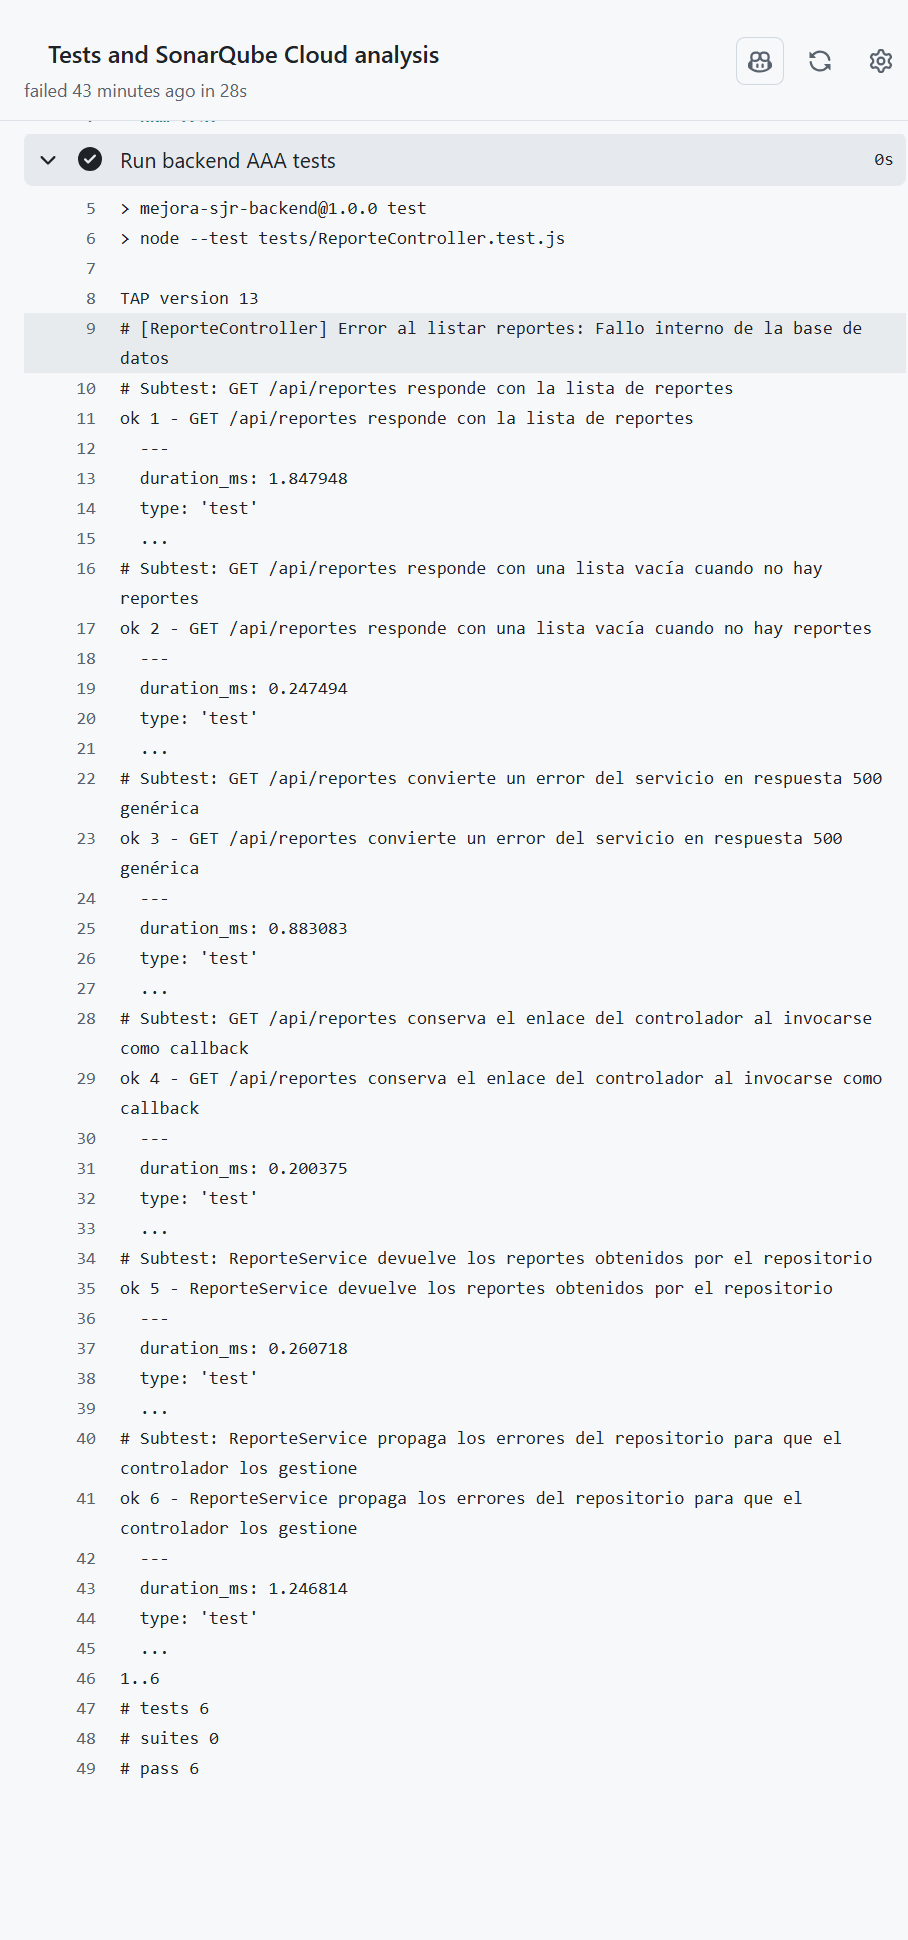
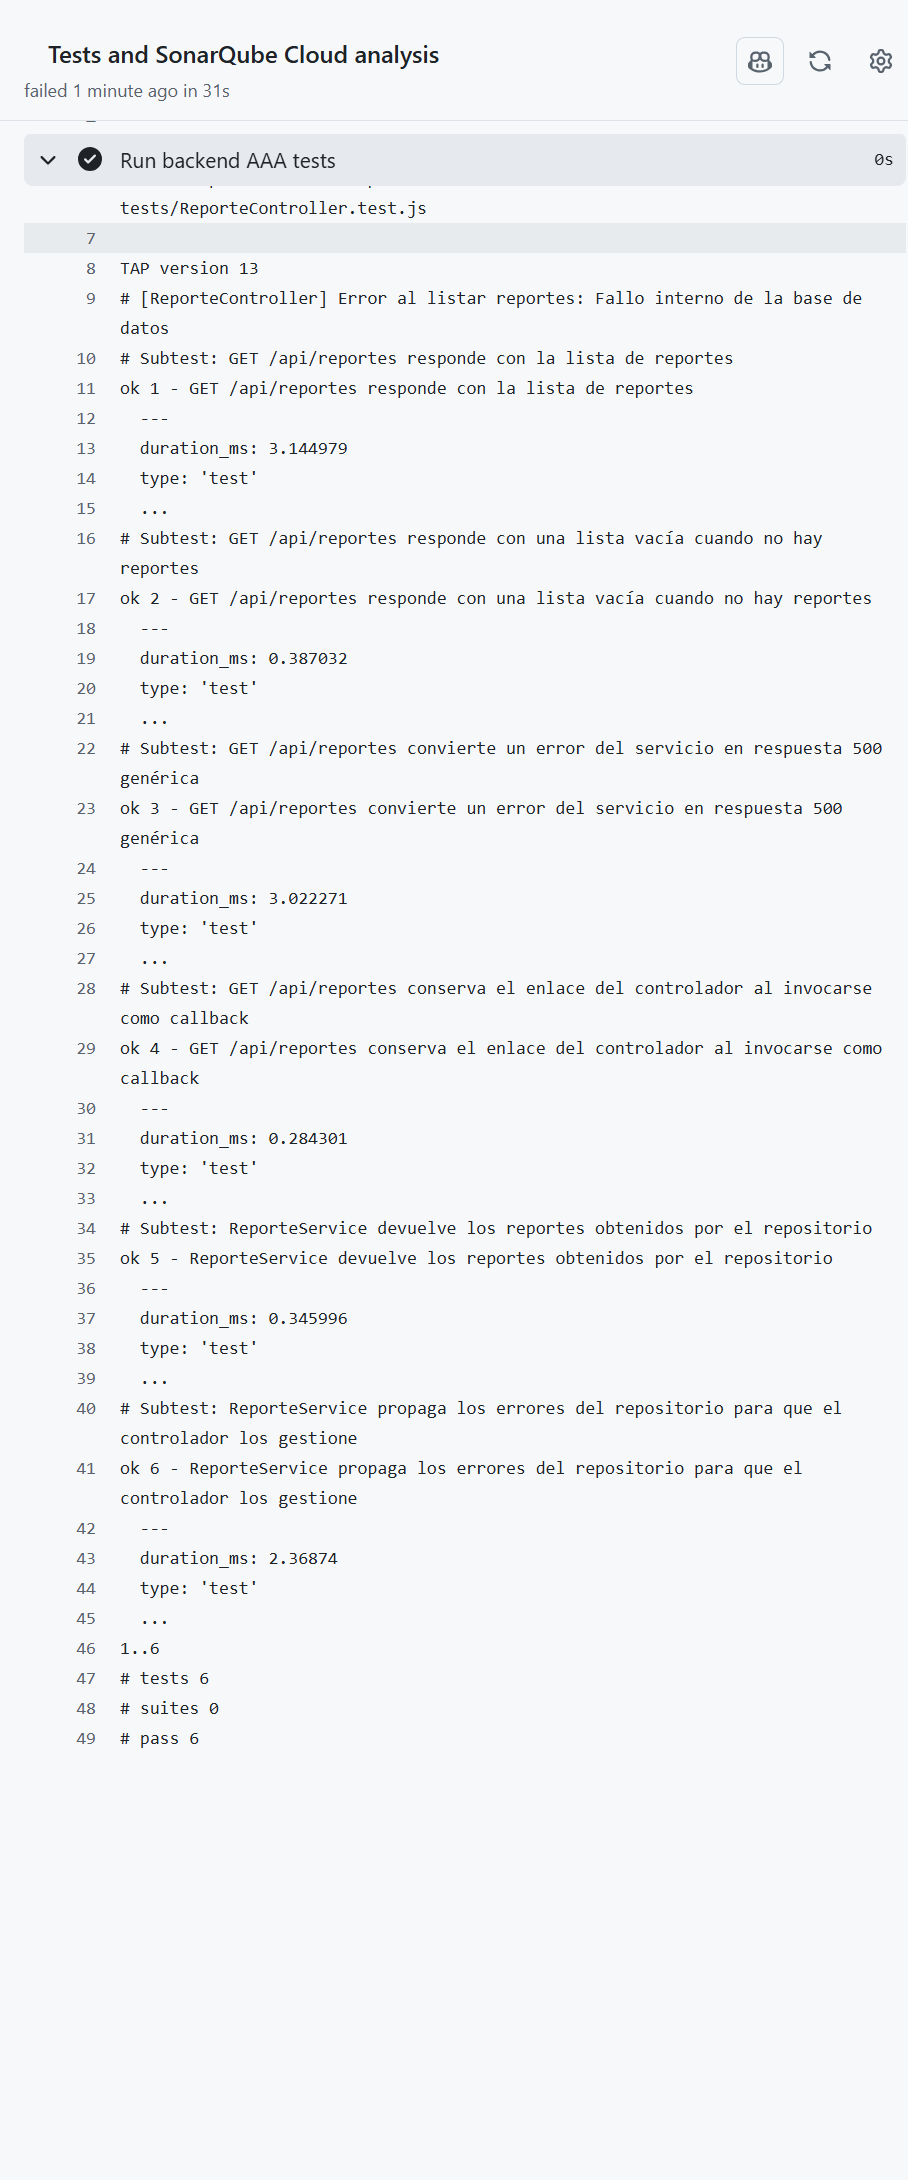
docs: refresh six-test CI screenshot

diff --git a/docs/entrega-practica-unidad-ii.md b/docs/entrega-practica-unidad-ii.md
@@ -257,20 +257,20 @@ cobertura se excluye del control de versiones.
 
 ### 6.4 Evidencia de ejecución
 
-La ejecución de GitHub Actions [Mobile CI para el PR #4](https://github.com/Dianamar06/Proyecto-Mejora-SJR/actions/runs/37011275899)
-finalizó correctamente en el commit `9a4d038`; el chequeo `validate-and-test`
-pasó con los seis casos AAA y la verificación de tipos móviles. Esta ejecución
-precede al cambio de `c8`, por lo que el reporte LCOV se valida localmente y
-queda pendiente de una nueva ejecución de CI.
+La ejecución de GitHub Actions [Mobile CI para el PR #4](https://github.com/Dianamar06/Proyecto-Mejora-SJR/actions/runs/37016531653)
+finalizó correctamente en el commit `0989e2e`; pasaron el chequeo `validate-and-test`
+y la verificación de tipos móviles. En la ejecución
+[Tests and SonarQube Cloud](https://github.com/Dianamar06/Proyecto-Mejora-SJR/actions/runs/37016531587),
+el paso `Run backend AAA tests` ejecutó `npm run test:coverage` y pasó los seis
+casos con `c8`.
 
-La siguiente captura muestra la salida real del paso `Run backend AAA tests`:
-los seis casos pasaron. El job de análisis completo aparece fallido porque se
-detuvo después en la validación de credenciales de SonarQube, no por fallos de
-estas pruebas.
+La captura muestra la salida real de ese paso: los seis casos pasaron. El job
+de análisis completo aparece fallido porque se detuvo después en la validación
+de credenciales de SonarQube, no por fallos de estas pruebas.
 
 ![Salida del job con los seis casos AAA aprobados](evidencias/seis-pruebas-aaa.png)
 
-La ejecución [Tests and SonarQube Cloud del PR #4](https://github.com/Dianamar06/Proyecto-Mejora-SJR/actions/runs/37011275933)
+La ejecución [Tests and SonarQube Cloud del PR #4](https://github.com/Dianamar06/Proyecto-Mejora-SJR/actions/runs/37016531587)
 no inició el análisis: se detuvo en la validación porque el secret `SONAR_TOKEN`
 no está configurado. Por tanto, no existe captura de un Quality Gate evaluado
 ni resultado que se pueda presentar como aprobado. Después de configurar los
